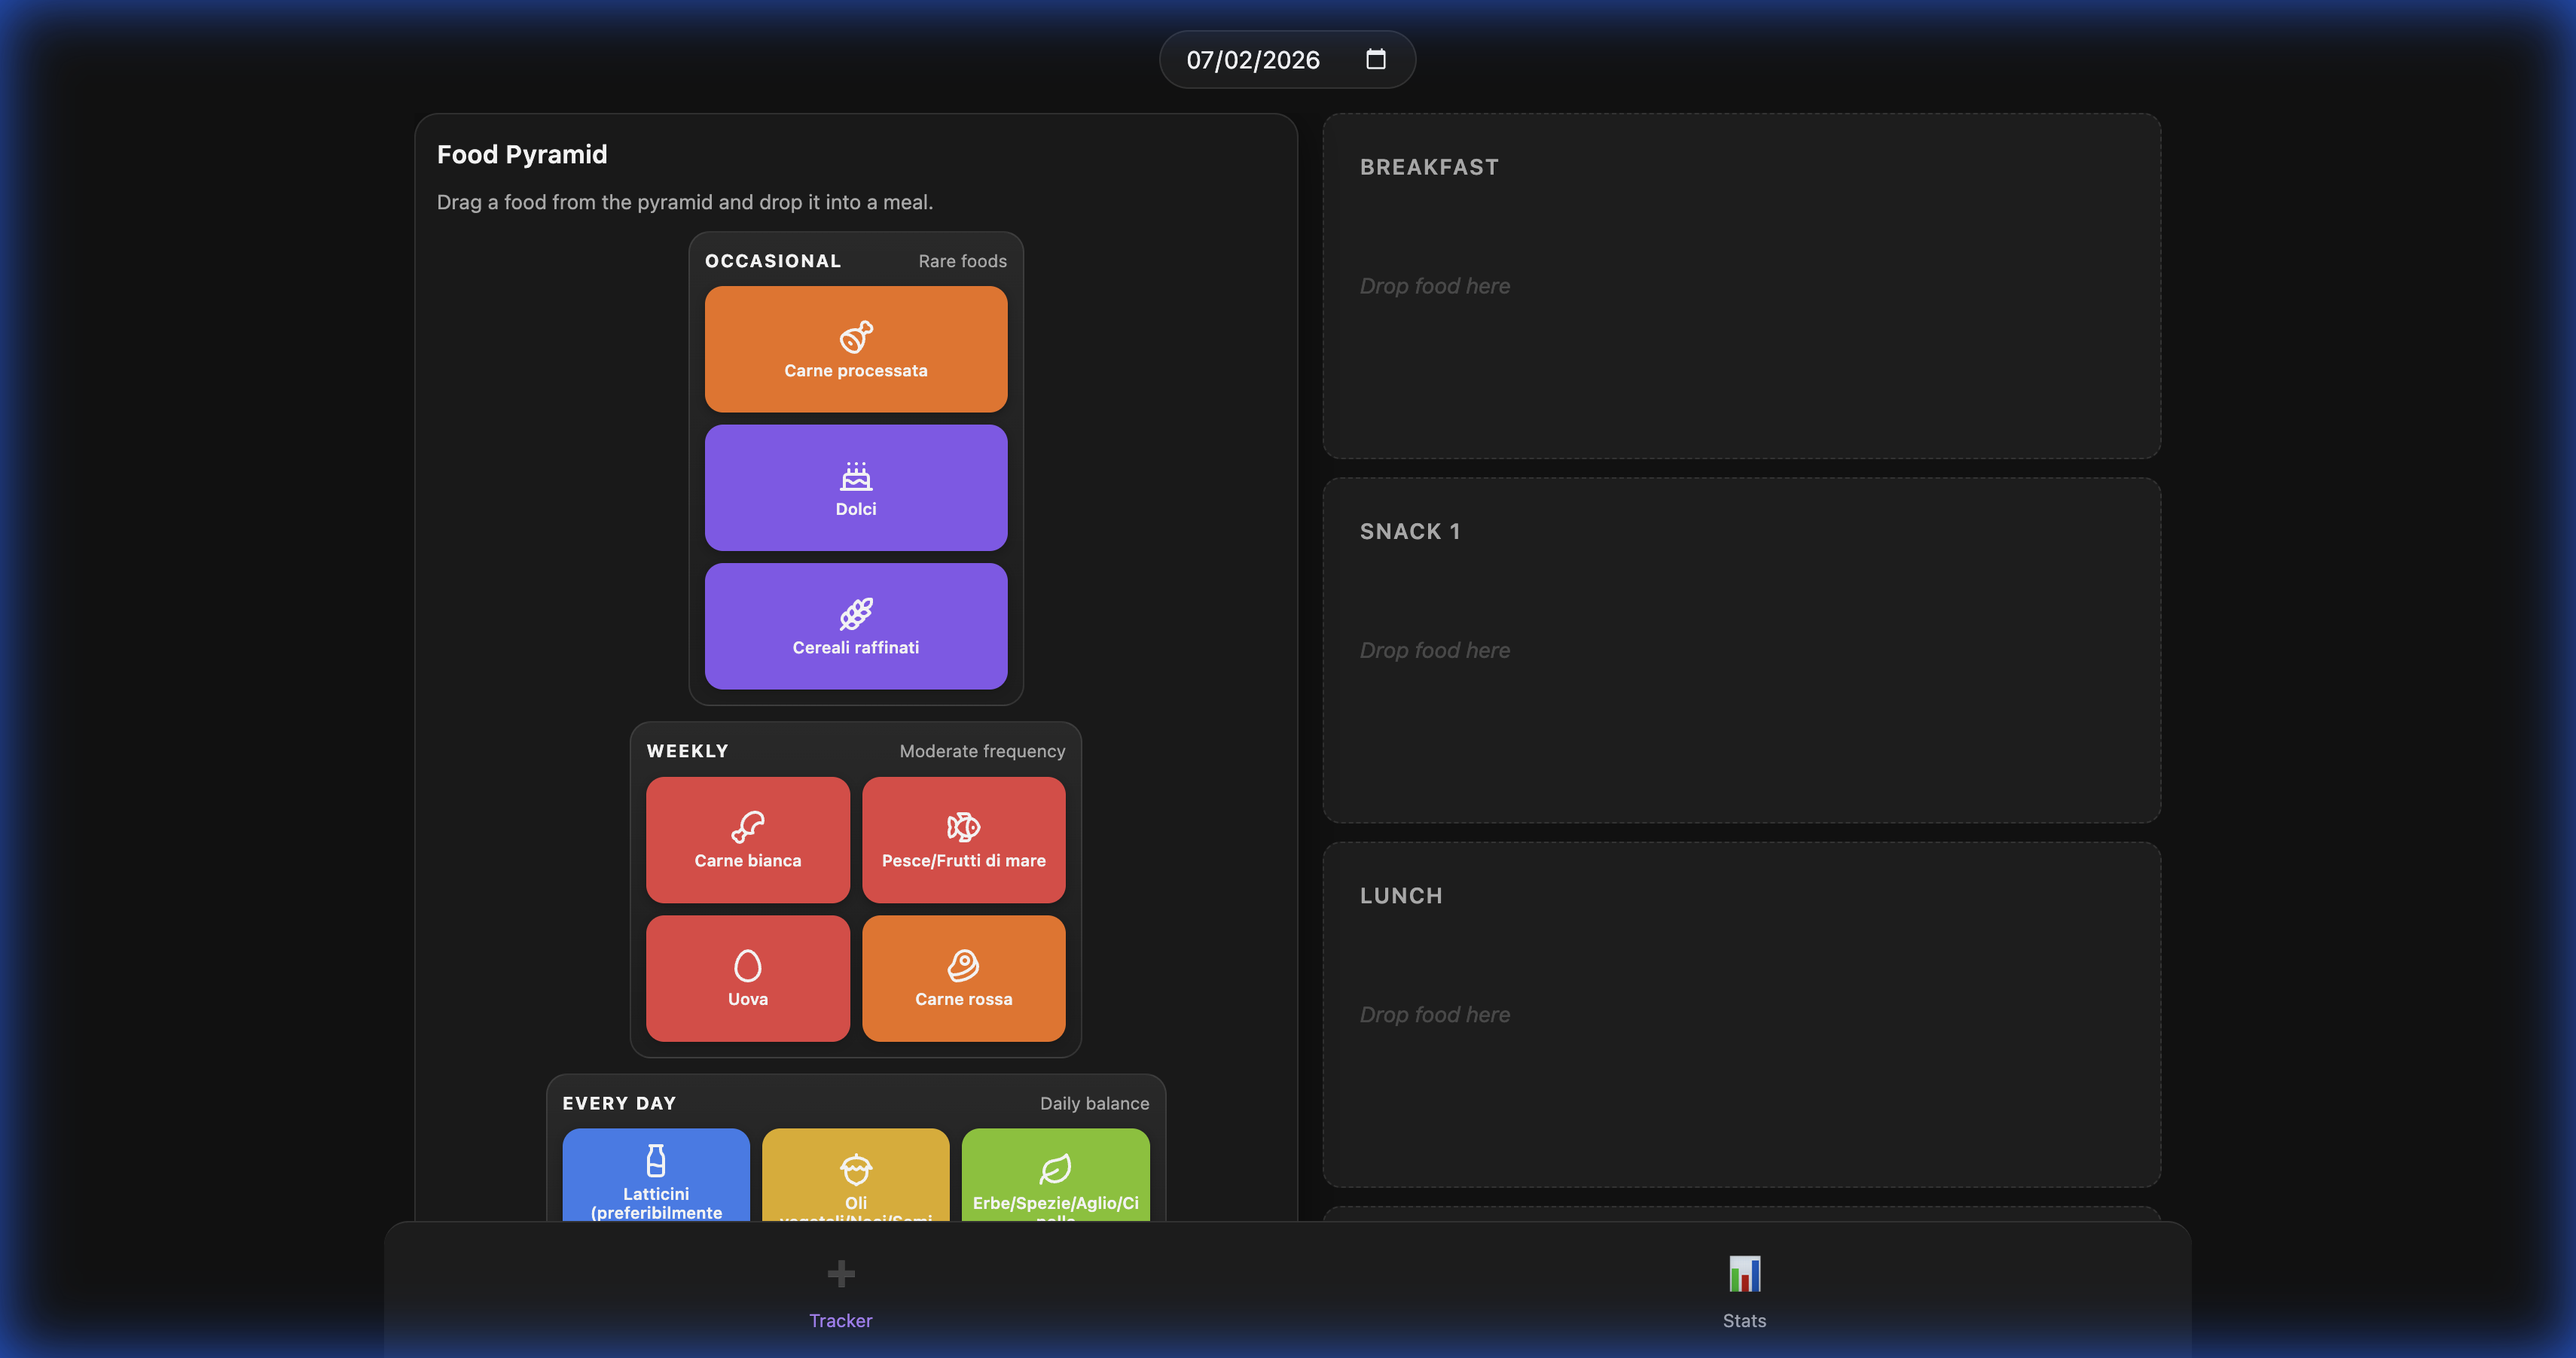
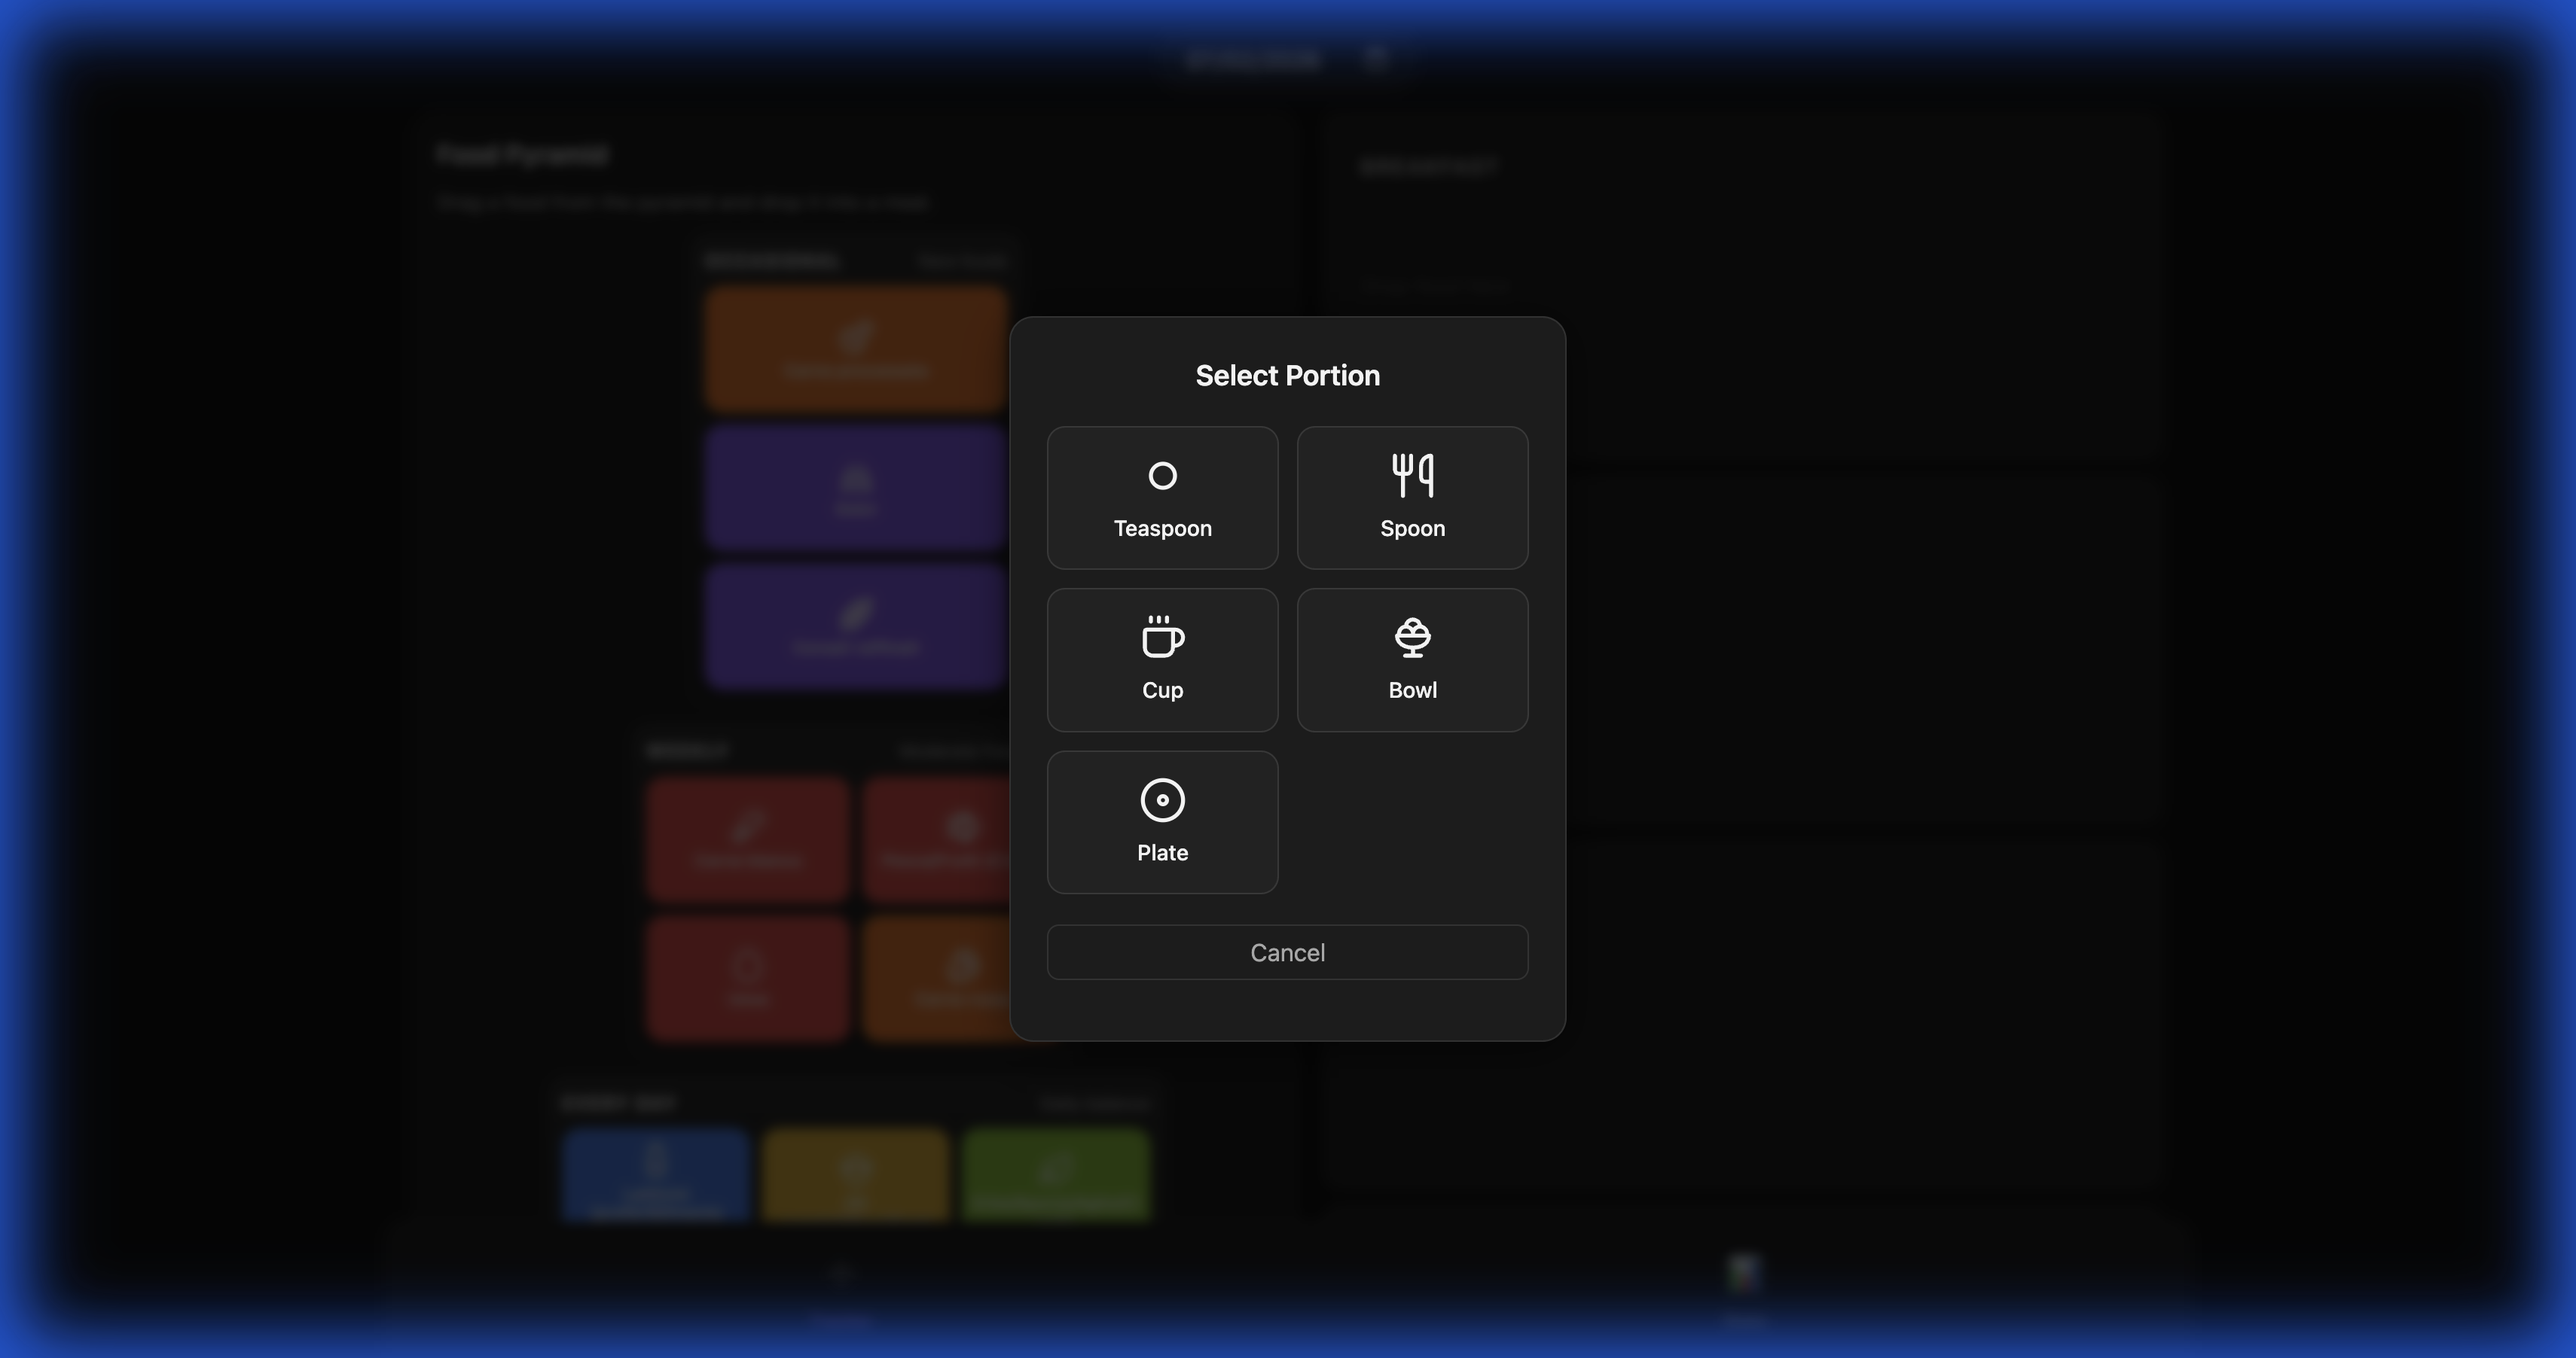
refactor: translate portion selection UI text from Italian to English and update the drag and drop screenshot.

diff --git a/src/pages/Tracker.jsx b/src/pages/Tracker.jsx
@@ -95,11 +95,11 @@ const CATEGORIES_BY_LEVEL = PYRAMID_LEVELS.reduce((acc, level) => {
 const MEAL_SLOTS = ['Breakfast', 'Snack 1', 'Lunch', 'Snack 2', 'Dinner'];
 
 const PORTIONS = [
-    { id: 'teaspoon', label: 'Cucchiaino', icon: CircleSmall },
-    { id: 'spoon', label: 'Cucchiaio', icon: Utensils },
-    { id: 'cup', label: 'Tazzina', icon: Coffee },
-    { id: 'bowl', label: 'Ciotola', icon: IceCreamBowl },
-    { id: 'plate', label: 'Piatto', icon: Disc },
+    { id: 'teaspoon', label: 'Teaspoon', icon: CircleSmall },
+    { id: 'spoon', label: 'Spoon', icon: Utensils },
+    { id: 'cup', label: 'Cup', icon: Coffee },
+    { id: 'bowl', label: 'Bowl', icon: IceCreamBowl },
+    { id: 'plate', label: 'Plate', icon: Disc },
 ];
 
 // --- Components ---
@@ -173,7 +173,7 @@ function PortionModal({ isOpen, onClose, onSelect }) {
     return (
         <div className="modal-overlay" onClick={onClose}>
             <div className="modal-content" onClick={e => e.stopPropagation()}>
-                <h3>Seleziona Porzione</h3>
+                <h3>Select Portion</h3>
                 <div className="portion-grid">
                     {PORTIONS.map(p => (
                         <div key={p.id} className="portion-item" onClick={() => onSelect(p.id)}>
@@ -182,7 +182,7 @@ function PortionModal({ isOpen, onClose, onSelect }) {
                         </div>
                     ))}
                 </div>
-                <button className="btn-cancel" onClick={onClose}>Annulla</button>
+                <button className="btn-cancel" onClick={onClose}>Cancel</button>
             </div>
         </div>
     );
